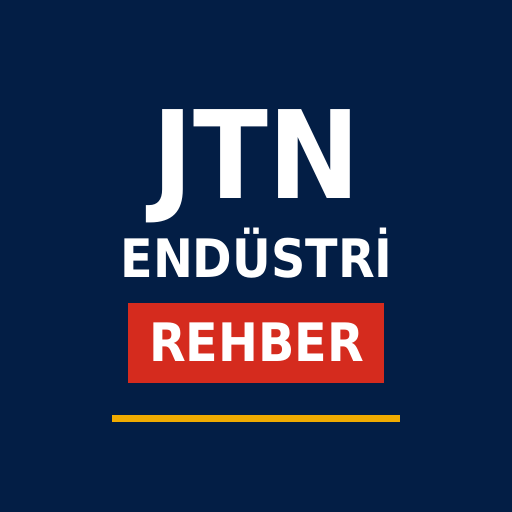
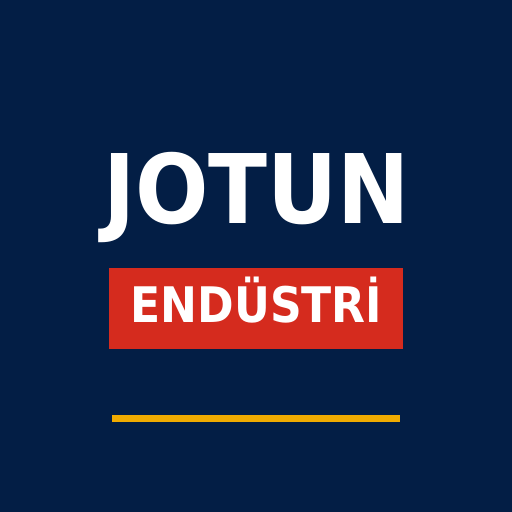
Ad: Jotun Endüstri; nötr standart arka planlar (iOS/Material), Jotun renkleri vurgu
Claude-Session: https://claude.ai/code/session_01BJcMCUTwxuE85oxcF1959v

Changed region(s): [[0.1875, 0.1875, 0.8125, 0.75]]

diff --git a/index.html b/index.html
@@ -1,11 +1,11 @@
 <!doctype html><html lang="tr"><head><meta charset="utf-8"><meta name="viewport" content="width=device-width,initial-scale=1,viewport-fit=cover">
 <link rel="manifest" href="manifest.webmanifest">
-<meta name="theme-color" content="#031e45">
+<meta name="theme-color" content="#f2f2f7">
 <link rel="icon" type="image/png" sizes="192x192" href="icon-192.png">
 <link rel="apple-touch-icon" href="apple-touch-icon.png">
 <meta name="apple-mobile-web-app-capable" content="yes">
 <meta name="mobile-web-app-capable" content="yes">
-<meta name="apple-mobile-web-app-title" content="JTN Rehber">
+<meta name="apple-mobile-web-app-title" content="Jotun Endüstri">
 <meta name="apple-mobile-web-app-status-bar-style" content="black-translucent">
 <style>
 #pwa-bar{position:fixed;left:12px;right:12px;bottom:calc(80px + env(safe-area-inset-bottom,0px));z-index:9999;background:#031e45;color:#fff;border-radius:10px;box-shadow:0 6px 24px rgba(0,0,0,.3);padding:12px 14px;display:flex;gap:10px;align-items:center;font:14px/1.4 system-ui,-apple-system,"Segoe UI",sans-serif;max-width:520px;margin:0 auto}
@@ -15,13 +15,13 @@
 #pwa-in{background:#f0ab00;color:#031e45}#pwa-x{background:transparent;color:#fff;font-size:20px!important;padding:4px 8px!important}
 </style>
 </head><body style="margin:0">
-<title>JTN Endüstri Rehber</title>
+<title>Jotun Endüstri</title>
 <meta name="claude:viewport-fit-sides" content="cover">
-<link rel="stylesheet" href="https://fonts.googleapis.com/css2?family=Barlow+Condensed:wght@600;700&family=IBM+Plex+Sans:wght@400;500;600&family=IBM+Plex+Mono:wght@400;500&display=swap">
+<link rel="stylesheet" href="https://fonts.googleapis.com/css2?family=Barlow+Condensed:wght@600;700&family=IBM+Plex+Sans:wght@400;500;600;700&family=IBM+Plex+Mono:wght@400;500&display=swap">
 <style>
 /* Layout: sticky input rail on the left (desktop) / on top (phone); system cards stacked on the right, each a spec sheet with a coat table. */
 :root{
-  --bg:#f3f5f9; --panel:#ffffff; --ink:#031e45; --muted:#4b5b74; --line:#d2d9e4;
+  --bg:#f2f2f7; --panel:#ffffff; --ink:#1c1c1e; --muted:#6b7280; --line:#e3e3e8;
   --steel:#031e45; --accent:#f0ab00; --accent-ink:#031e45; --zinc:#5f7391; --red:#d52b1e;
   --ok:#2e7d4f; --warn:#d52b1e; --shadow:0 1px 2px rgba(3,30,69,.05),0 6px 18px rgba(3,30,69,.06);
   --f-display:"Barlow Condensed","Arial Narrow",Arial,sans-serif;
@@ -29,11 +29,11 @@
   --f-mono:"IBM Plex Mono",ui-monospace,Menlo,Consolas,monospace;
 }
 @media (prefers-color-scheme: dark){:root:not([data-theme="light"]){
-  --bg:#061430; --panel:#0c1f3f; --ink:#e9eef7; --muted:#9db0cc; --line:#20385e;
-  --steel:#9cbcef; --accent:#f0ab00; --accent-ink:#031e45; --zinc:#8fa3c2; --red:#ff6a5c; --ok:#6cc392; --warn:#ff7a6c; --shadow:0 1px 2px rgba(0,0,0,.25); color-scheme:dark}}
+  --bg:#000000; --panel:#1c1c1e; --ink:#f2f2f7; --muted:#9a9aa1; --line:#38383a;
+  --steel:#8fb3ff; --on-steel:#000; --accent:#f0ab00; --accent-ink:#031e45; --zinc:#8fa3c2; --red:#ff6a5c; --ok:#6cc392; --warn:#ff7a6c; --shadow:0 1px 2px rgba(0,0,0,.25); color-scheme:dark}}
 :root[data-theme="dark"]{
-  --bg:#061430; --panel:#0c1f3f; --ink:#e9eef7; --muted:#9db0cc; --line:#20385e;
-  --steel:#9cbcef; --accent:#f0ab00; --accent-ink:#031e45; --zinc:#8fa3c2; --red:#ff6a5c; --ok:#6cc392; --warn:#ff7a6c; --shadow:0 1px 2px rgba(0,0,0,.25); color-scheme:dark}
+  --bg:#000000; --panel:#1c1c1e; --ink:#f2f2f7; --muted:#9a9aa1; --line:#38383a;
+  --steel:#8fb3ff; --on-steel:#000; --accent:#f0ab00; --accent-ink:#031e45; --zinc:#8fa3c2; --red:#ff6a5c; --ok:#6cc392; --warn:#ff7a6c; --shadow:0 1px 2px rgba(0,0,0,.25); color-scheme:dark}
 *{box-sizing:border-box}
 body{background:var(--bg);color:var(--ink);font-family:var(--f-body);font-size:15px;line-height:1.5}
 .wrap{max-width:1180px;margin:0 auto;padding-block:20px 48px;padding-left:max(16px,env(safe-area-inset-left,0px));padding-right:max(16px,env(safe-area-inset-right,0px))}
@@ -51,7 +51,7 @@ legend,label.lbl{font-size:11px;font-weight:600;letter-spacing:.08em;text-transf
 .seg{display:flex;flex-wrap:wrap;gap:4px}
 .seg input{position:absolute;opacity:0;pointer-events:none}
 .seg label{flex:1 1 auto;text-align:center;border:1px solid var(--line);border-radius:4px;padding:6px 8px;cursor:pointer;font-size:13px;font-weight:500;background:var(--bg);min-width:44px}
-.seg input:checked+label{background:var(--ink);color:var(--bg);border-color:var(--ink)}
+.seg input:checked+label{background:var(--steel);color:var(--on-steel,#fff);border-color:var(--steel)}
 .seg input:focus-visible+label{outline:2px solid var(--accent);outline-offset:2px}
 .seg input:disabled+label{opacity:.35;cursor:not-allowed}
 .hint{font-size:12px;color:var(--muted);margin:2px 0 0}
@@ -168,10 +168,10 @@ details.more summary{padding:4px 0;font-size:12.5px;font-weight:500}
 svg.art{width:100%;height:100%;fill:none;stroke:var(--ink);stroke-width:2;stroke-linecap:round;stroke-linejoin:round}
 svg.art .f{fill:var(--art-fill);stroke:none}svg.art .a{stroke:var(--red);stroke-width:2.4}svg.art circle.a,svg.art rect.a{fill:var(--art-red)}
 svg.art .y{stroke:var(--accent);stroke-width:2.6}svg.art .d{stroke:var(--muted);stroke-width:1.6;opacity:.7}svg.art .g{stroke:var(--zinc);stroke-width:3}
-:root{--art-fill:#dfe7f3;--art-red:#fbe3e1;--tile:#e9eef6}
-@media (prefers-color-scheme: dark){:root:not([data-theme="light"]){--art-fill:#16315c;--art-red:#4a1d1d;--tile:#0f2548}}
-:root[data-theme="dark"]{--art-fill:#16315c;--art-red:#4a1d1d;--tile:#0f2548}
-.h-hi{margin:0;font:700 22px/1.2 var(--f-body);color:var(--steel)}
+:root{--art-fill:#e4eaf3;--art-red:#fbe3e1;--tile:#ffffff}
+@media (prefers-color-scheme: dark){:root:not([data-theme="light"]){--art-fill:#2c3446;--art-red:#4a1d1d;--tile:#2c2c2e}}
+:root[data-theme="dark"]{--art-fill:#2c3446;--art-red:#4a1d1d;--tile:#2c2c2e}
+.h-hi{margin:0;font:700 22px/1.2 var(--f-body);color:var(--ink)}
 .h-search{display:flex;align-items:center;gap:8px;background:var(--panel);border:1px solid var(--line);border-radius:12px;padding:0 12px}
 .h-search svg{width:20px;height:20px;fill:none;stroke:var(--muted);stroke-width:2;flex:none}
 .h-search input,.h-search input[type=search]{flex:1;min-width:0;width:auto;border:0;border-radius:0;background:transparent;font:16px var(--f-body);padding:12px 0;color:var(--ink);outline:none}
@@ -191,7 +191,7 @@ svg.art .y{stroke:var(--accent);stroke-width:2.6}svg.art .d{stroke:var(--muted);
 .h-cats{display:grid;grid-template-columns:repeat(4,1fr);gap:12px 8px}
 @media (min-width:701px){.h-cats{grid-template-columns:repeat(8,1fr)}}
 .h-cat{display:flex;flex-direction:column;align-items:center;gap:6px;background:none;border:0;padding:0;cursor:pointer;font:inherit;color:var(--ink);transition:transform .12s}
-.h-ic{display:block;width:100%;aspect-ratio:1;background:var(--tile);border-radius:16px;padding:12%}
+.h-ic{display:block;width:100%;aspect-ratio:1;background:var(--tile);border-radius:16px;padding:12%;box-shadow:var(--shadow)}
 .h-ic.t{background:var(--panel);border:1px solid var(--line)}
 .h-lb{font:600 12.5px/1.2 var(--f-body);text-align:center}
 .h-cat:focus-visible .h-ic{outline:2px solid var(--accent);outline-offset:2px}
@@ -394,7 +394,7 @@ label.btn{display:inline-block}
 
 <div class="wrap">
 <header>
-  <a href="#ana" class="brand" aria-label="Ana sayfa"><h1>JTN ENDÜSTRİ <span>REHBER</span></h1></a>
+  <a href="#ana" class="brand" aria-label="Ana sayfa"><h1>JOTUN <span>ENDÜSTRİ</span></h1></a>
 </header>
 <nav class="tabs" aria-label="Bölümler">
   <a href="#ana" id="t-ana" class="tab" aria-current="page"><svg viewBox="0 0 24 24" aria-hidden="true"><path d="M3 11l9-7 9 7"/><path d="M5 10v10h14V10"/><path d="M10 20v-6h4v6"/></svg><span>Ana Sayfa</span></a>
@@ -414,7 +414,7 @@ label.btn{display:inline-block}
   <div id="h-hist-wrap" hidden><h3 class="h-sec" style="margin-bottom:8px">Son teklifler</h3><div class="h-hist" id="h-hist"></div></div>
   <h3 class="h-sec">Hızlı işlemler</h3>
   <div class="h-cats h-cats3"><button type="button" class="h-cat" data-go="teklif"><span class="h-ic t"><svg class="art" viewBox="0 0 64 64" aria-hidden="true"><path class="f" d="M14 6h26l10 10v42H14z"/><path d="M14 6h26l10 10v42H14zM40 6v10h10"/><path class="d" d="M20 26h24M20 33h24M20 40h24M32 26v21"/><path class="y" d="M20 50h14"/></svg></span><span class="h-lb">Teklif</span></button><button type="button" class="h-cat" data-go="foto"><span class="h-ic t"><svg class="art" viewBox="0 0 64 64" aria-hidden="true"><path class="f" d="M8 12h40v28H24l-10 9v-9H8z"/><path d="M8 12h40v28H24l-10 9v-9H8z"/><path class="a" d="M23 22a5 5 0 1 1 7 4.6c-1.4.6-2 1.4-2 2.9V31"/><circle class="a" cx="28" cy="35.5" r=".8"/><path class="y" d="M52 24h4v26h-6l-6 6v-6"/></svg></span><span class="h-lb">Soru sor</span></button><button type="button" class="h-cat" data-go="urun"><span class="h-ic t"><svg class="art" viewBox="0 0 64 64" aria-hidden="true"><path class="f" d="M14 16h36v38a3 3 0 0 1-3 3H17a3 3 0 0 1-3-3z"/><path d="M14 16h36v38a3 3 0 0 1-3 3H17a3 3 0 0 1-3-3zM14 16c0-4 36-4 36 0M22 10h20"/><rect class="a" x="20" y="28" width="24" height="14"/><path class="y" d="M24 48h16"/></svg></span><span class="h-lb">Ürünler</span></button></div>
-  <p class="foot" style="text-align:center;margin-top:8px">Sürüm 29.10.2026 · 22:25</p>
+  <p class="foot" style="text-align:center;margin-top:8px">Sürüm 29.10.2026 · 22:35</p>
 </section>
 <div id="v-sistem">
 
@@ -1850,7 +1850,7 @@ if(matchMedia("(max-width:700px)").matches){const pv=$(".q-prev");if(pv)pv.open=
   render(); badgeUpd(); route();})();
 })();
 </script>
-<div id="pwa-bar" hidden><img src="icon-192.png" alt=""><div class="t"><b>JTN Endüstri Rehber'i yükle</b><span id="pwa-msg">Telefonunda uygulama olarak açılsın.</span></div><button type="button" id="pwa-in">Yükle</button><button type="button" id="pwa-x" aria-label="Kapat">×</button></div>
+<div id="pwa-bar" hidden><img src="icon-192.png" alt=""><div class="t"><b>Jotun Endüstri'yi yükle</b><span id="pwa-msg">Telefonunda uygulama olarak açılsın.</span></div><button type="button" id="pwa-in">Yükle</button><button type="button" id="pwa-x" aria-label="Kapat">×</button></div>
 <script>
 (function(){
   if("serviceWorker" in navigator){addEventListener("load",function(){navigator.serviceWorker.register("sw.js").then(function(r){r.update();}).catch(function(){});});var rl=false;navigator.serviceWorker.addEventListener("controllerchange",function(){if(rl)return;rl=true;location.reload();});}

diff --git a/ios-app/app.html b/ios-app/app.html
@@ -1,10 +1,10 @@
-<title>JTN Endüstri Rehber</title>
+<title>Jotun Endüstri</title>
 <meta name="claude:viewport-fit-sides" content="cover">
-<link rel="stylesheet" href="https://fonts.googleapis.com/css2?family=Barlow+Condensed:wght@600;700&family=IBM+Plex+Sans:wght@400;500;600&family=IBM+Plex+Mono:wght@400;500&display=swap">
+<link rel="stylesheet" href="https://fonts.googleapis.com/css2?family=Barlow+Condensed:wght@600;700&family=IBM+Plex+Sans:wght@400;500;600;700&family=IBM+Plex+Mono:wght@400;500&display=swap">
 <style>
 /* Layout: sticky input rail on the left (desktop) / on top (phone); system cards stacked on the right, each a spec sheet with a coat table. */
 :root{
-  --bg:#f3f5f9; --panel:#ffffff; --ink:#031e45; --muted:#4b5b74; --line:#d2d9e4;
+  --bg:#f2f2f7; --panel:#ffffff; --ink:#1c1c1e; --muted:#6b7280; --line:#e3e3e8;
   --steel:#031e45; --accent:#f0ab00; --accent-ink:#031e45; --zinc:#5f7391; --red:#d52b1e;
   --ok:#2e7d4f; --warn:#d52b1e; --shadow:0 1px 2px rgba(3,30,69,.05),0 6px 18px rgba(3,30,69,.06);
   --f-display:"Barlow Condensed","Arial Narrow",Arial,sans-serif;
@@ -12,11 +12,11 @@
   --f-mono:"IBM Plex Mono",ui-monospace,Menlo,Consolas,monospace;
 }
 @media (prefers-color-scheme: dark){:root:not([data-theme="light"]){
-  --bg:#061430; --panel:#0c1f3f; --ink:#e9eef7; --muted:#9db0cc; --line:#20385e;
-  --steel:#9cbcef; --accent:#f0ab00; --accent-ink:#031e45; --zinc:#8fa3c2; --red:#ff6a5c; --ok:#6cc392; --warn:#ff7a6c; --shadow:0 1px 2px rgba(0,0,0,.25); color-scheme:dark}}
+  --bg:#000000; --panel:#1c1c1e; --ink:#f2f2f7; --muted:#9a9aa1; --line:#38383a;
+  --steel:#8fb3ff; --on-steel:#000; --accent:#f0ab00; --accent-ink:#031e45; --zinc:#8fa3c2; --red:#ff6a5c; --ok:#6cc392; --warn:#ff7a6c; --shadow:0 1px 2px rgba(0,0,0,.25); color-scheme:dark}}
 :root[data-theme="dark"]{
-  --bg:#061430; --panel:#0c1f3f; --ink:#e9eef7; --muted:#9db0cc; --line:#20385e;
-  --steel:#9cbcef; --accent:#f0ab00; --accent-ink:#031e45; --zinc:#8fa3c2; --red:#ff6a5c; --ok:#6cc392; --warn:#ff7a6c; --shadow:0 1px 2px rgba(0,0,0,.25); color-scheme:dark}
+  --bg:#000000; --panel:#1c1c1e; --ink:#f2f2f7; --muted:#9a9aa1; --line:#38383a;
+  --steel:#8fb3ff; --on-steel:#000; --accent:#f0ab00; --accent-ink:#031e45; --zinc:#8fa3c2; --red:#ff6a5c; --ok:#6cc392; --warn:#ff7a6c; --shadow:0 1px 2px rgba(0,0,0,.25); color-scheme:dark}
 *{box-sizing:border-box}
 body{background:var(--bg);color:var(--ink);font-family:var(--f-body);font-size:15px;line-height:1.5}
 .wrap{max-width:1180px;margin:0 auto;padding-block:20px 48px;padding-left:max(16px,env(safe-area-inset-left,0px));padding-right:max(16px,env(safe-area-inset-right,0px))}
@@ -34,7 +34,7 @@ legend,label.lbl{font-size:11px;font-weight:600;letter-spacing:.08em;text-transf
 .seg{display:flex;flex-wrap:wrap;gap:4px}
 .seg input{position:absolute;opacity:0;pointer-events:none}
 .seg label{flex:1 1 auto;text-align:center;border:1px solid var(--line);border-radius:4px;padding:6px 8px;cursor:pointer;font-size:13px;font-weight:500;background:var(--bg);min-width:44px}
-.seg input:checked+label{background:var(--ink);color:var(--bg);border-color:var(--ink)}
+.seg input:checked+label{background:var(--steel);color:var(--on-steel,#fff);border-color:var(--steel)}
 .seg input:focus-visible+label{outline:2px solid var(--accent);outline-offset:2px}
 .seg input:disabled+label{opacity:.35;cursor:not-allowed}
 .hint{font-size:12px;color:var(--muted);margin:2px 0 0}
@@ -151,10 +151,10 @@ details.more summary{padding:4px 0;font-size:12.5px;font-weight:500}
 svg.art{width:100%;height:100%;fill:none;stroke:var(--ink);stroke-width:2;stroke-linecap:round;stroke-linejoin:round}
 svg.art .f{fill:var(--art-fill);stroke:none}svg.art .a{stroke:var(--red);stroke-width:2.4}svg.art circle.a,svg.art rect.a{fill:var(--art-red)}
 svg.art .y{stroke:var(--accent);stroke-width:2.6}svg.art .d{stroke:var(--muted);stroke-width:1.6;opacity:.7}svg.art .g{stroke:var(--zinc);stroke-width:3}
-:root{--art-fill:#dfe7f3;--art-red:#fbe3e1;--tile:#e9eef6}
-@media (prefers-color-scheme: dark){:root:not([data-theme="light"]){--art-fill:#16315c;--art-red:#4a1d1d;--tile:#0f2548}}
-:root[data-theme="dark"]{--art-fill:#16315c;--art-red:#4a1d1d;--tile:#0f2548}
-.h-hi{margin:0;font:700 22px/1.2 var(--f-body);color:var(--steel)}
+:root{--art-fill:#e4eaf3;--art-red:#fbe3e1;--tile:#ffffff}
+@media (prefers-color-scheme: dark){:root:not([data-theme="light"]){--art-fill:#2c3446;--art-red:#4a1d1d;--tile:#2c2c2e}}
+:root[data-theme="dark"]{--art-fill:#2c3446;--art-red:#4a1d1d;--tile:#2c2c2e}
+.h-hi{margin:0;font:700 22px/1.2 var(--f-body);color:var(--ink)}
 .h-search{display:flex;align-items:center;gap:8px;background:var(--panel);border:1px solid var(--line);border-radius:12px;padding:0 12px}
 .h-search svg{width:20px;height:20px;fill:none;stroke:var(--muted);stroke-width:2;flex:none}
 .h-search input,.h-search input[type=search]{flex:1;min-width:0;width:auto;border:0;border-radius:0;background:transparent;font:16px var(--f-body);padding:12px 0;color:var(--ink);outline:none}
@@ -174,7 +174,7 @@ svg.art .y{stroke:var(--accent);stroke-width:2.6}svg.art .d{stroke:var(--muted);
 .h-cats{display:grid;grid-template-columns:repeat(4,1fr);gap:12px 8px}
 @media (min-width:701px){.h-cats{grid-template-columns:repeat(8,1fr)}}
 .h-cat{display:flex;flex-direction:column;align-items:center;gap:6px;background:none;border:0;padding:0;cursor:pointer;font:inherit;color:var(--ink);transition:transform .12s}
-.h-ic{display:block;width:100%;aspect-ratio:1;background:var(--tile);border-radius:16px;padding:12%}
+.h-ic{display:block;width:100%;aspect-ratio:1;background:var(--tile);border-radius:16px;padding:12%;box-shadow:var(--shadow)}
 .h-ic.t{background:var(--panel);border:1px solid var(--line)}
 .h-lb{font:600 12.5px/1.2 var(--f-body);text-align:center}
 .h-cat:focus-visible .h-ic{outline:2px solid var(--accent);outline-offset:2px}
@@ -377,7 +377,7 @@ label.btn{display:inline-block}
 
 <div class="wrap">
 <header>
-  <a href="#ana" class="brand" aria-label="Ana sayfa"><h1>JTN ENDÜSTRİ <span>REHBER</span></h1></a>
+  <a href="#ana" class="brand" aria-label="Ana sayfa"><h1>JOTUN <span>ENDÜSTRİ</span></h1></a>
 </header>
 <nav class="tabs" aria-label="Bölümler">
   <a href="#ana" id="t-ana" class="tab" aria-current="page"><svg viewBox="0 0 24 24" aria-hidden="true"><path d="M3 11l9-7 9 7"/><path d="M5 10v10h14V10"/><path d="M10 20v-6h4v6"/></svg><span>Ana Sayfa</span></a>
@@ -397,7 +397,7 @@ label.btn{display:inline-block}
   <div id="h-hist-wrap" hidden><h3 class="h-sec" style="margin-bottom:8px">Son teklifler</h3><div class="h-hist" id="h-hist"></div></div>
   <h3 class="h-sec">Hızlı işlemler</h3>
   <div class="h-cats h-cats3"><button type="button" class="h-cat" data-go="teklif"><span class="h-ic t"><svg class="art" viewBox="0 0 64 64" aria-hidden="true"><path class="f" d="M14 6h26l10 10v42H14z"/><path d="M14 6h26l10 10v42H14zM40 6v10h10"/><path class="d" d="M20 26h24M20 33h24M20 40h24M32 26v21"/><path class="y" d="M20 50h14"/></svg></span><span class="h-lb">Teklif</span></button><button type="button" class="h-cat" data-go="foto"><span class="h-ic t"><svg class="art" viewBox="0 0 64 64" aria-hidden="true"><path class="f" d="M8 12h40v28H24l-10 9v-9H8z"/><path d="M8 12h40v28H24l-10 9v-9H8z"/><path class="a" d="M23 22a5 5 0 1 1 7 4.6c-1.4.6-2 1.4-2 2.9V31"/><circle class="a" cx="28" cy="35.5" r=".8"/><path class="y" d="M52 24h4v26h-6l-6 6v-6"/></svg></span><span class="h-lb">Soru sor</span></button><button type="button" class="h-cat" data-go="urun"><span class="h-ic t"><svg class="art" viewBox="0 0 64 64" aria-hidden="true"><path class="f" d="M14 16h36v38a3 3 0 0 1-3 3H17a3 3 0 0 1-3-3z"/><path d="M14 16h36v38a3 3 0 0 1-3 3H17a3 3 0 0 1-3-3zM14 16c0-4 36-4 36 0M22 10h20"/><rect class="a" x="20" y="28" width="24" height="14"/><path class="y" d="M24 48h16"/></svg></span><span class="h-lb">Ürünler</span></button></div>
-  <p class="foot" style="text-align:center;margin-top:8px">Sürüm 29.10.2026 · 22:25</p>
+  <p class="foot" style="text-align:center;margin-top:8px">Sürüm 29.10.2026 · 22:35</p>
 </section>
 <div id="v-sistem">
 

diff --git a/privacy.html b/privacy.html
@@ -1,8 +1,8 @@
-<!doctype html><html lang="tr"><head><meta charset="utf-8"><meta name="viewport" content="width=device-width,initial-scale=1"><title>JTN Endüstri Rehber – Gizlilik Politikası</title>
+<!doctype html><html lang="tr"><head><meta charset="utf-8"><meta name="viewport" content="width=device-width,initial-scale=1"><title>Jotun Endüstri – Gizlilik Politikası</title>
 <style>body{font:16px/1.6 system-ui,-apple-system,"Segoe UI",sans-serif;color:#031e45;background:#f1f3f7;margin:0;padding:24px 16px}main{max-width:720px;margin:0 auto;background:#fff;border-radius:8px;padding:24px}h1{font-size:24px;margin-top:0}h2{font-size:18px;margin-top:24px}</style></head>
 <body><main>
-<h1>JTN Endüstri Rehber – Gizlilik Politikası</h1>
-<p>JTN Endüstri Rehber; boya sistemi önerisi, boya sarfiyatı hesabı, teklif hazırlama ve ürün bilgisi için kullanılan bir uygulamadır.</p>
+<h1>Jotun Endüstri – Gizlilik Politikası</h1>
+<p>Jotun Endüstri; boya sistemi önerisi, boya sarfiyatı hesabı, teklif hazırlama ve ürün bilgisi için kullanılan bir uygulamadır.</p>
 <h2>Toplanan veriler</h2>
 <p>Uygulama hesap açtırmaz, kişisel veri toplamaz, reklam ve takip aracı kullanmaz. Girdiğiniz bayi adı, müşteri adı, fiyat ve yoğunluk gibi bilgiler yalnızca cihazınızda saklanır; sunuculara gönderilmez.</p>
 <h2>Kamera ve fotoğraflar</h2>

diff --git a/sw.js b/sw.js
@@ -1,5 +1,5 @@
-/* JTN Endüstri Rehber – çevrimdışı çalışma ve hızlı açılış */
-const CACHE = "jtn-rehber-v3";
+/* Jotun Endüstri – çevrimdışı çalışma ve hızlı açılış */
+const CACHE = "jotun-endustri-v4";
 const CORE = ["./", "./index.html", "./manifest.webmanifest", "./icon-192.png", "./icon-512.png", "./apple-touch-icon.png",
   "https://cdnjs.cloudflare.com/ajax/libs/html2canvas/1.4.1/html2canvas.min.js",
   "https://cdnjs.cloudflare.com/ajax/libs/jspdf/2.5.1/jspdf.umd.min.js"];

diff --git a/ios-app/fonts.py b/ios-app/fonts.py
@@ -1,7 +1,7 @@
 # fontsource CSS'inden latin ve latin-ext yüzlerini alıp www/fonts.css üretir
 import re,shutil,os,sys
 out=[]
-for pkg,ws in [("barlow-condensed",[600,700]),("ibm-plex-sans",[400,500,600]),("ibm-plex-mono",[400,500])]:
+for pkg,ws in [("barlow-condensed",[600,700]),("ibm-plex-sans",[400,500,600,700]),("ibm-plex-mono",[400,500])]:
     for w in ws:
         css=open(f"node_modules/@fontsource/{pkg}/{w}.css").read()
         for blk in re.findall(r"/\* ([^*]+) \*/\s*(@font-face \{.*?\})",css,re.S):
